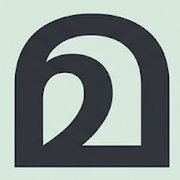
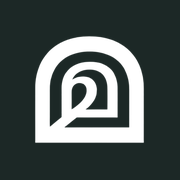
Add files via upload

diff --git a/theme.css b/theme.css
@@ -55,3 +55,12 @@ body.pub .content, body.pub .content p, body.pub .content li, body.pub .content 
 body.pub .content b, body.pub .content strong, body.pub .content h1, body.pub .content h2, body.pub .content h3 { font-weight: 700; }
 body.pub .content { font-family: "Noto Serif Malayalam", Georgia, serif; }
 body.pub .edit-bar button { font-weight: 600; }
+
+/* ---- Logo: one shape, recoloured per theme ---- */
+.logo-mark {
+  display: inline-block; flex: none; width: 36px; height: 36px; background-color: #085444;
+  -webkit-mask: url("logo-mark.png") center / contain no-repeat; mask: url("logo-mark.png") center / contain no-repeat;
+}
+html[data-theme="dark"] .logo-mark { background-color: #FFFFFF; }
+html[data-theme="eye"] .logo-mark { background-color: #365B3E; }
+header.top .brand { gap: 10px; }

diff --git a/index.html b/index.html
@@ -13,7 +13,7 @@
 <link rel="stylesheet" href="theme.css">
 <script src="https://cdn.jsdelivr.net/npm/@supabase/supabase-js@2.45.4/dist/umd/supabase.min.js"></script>
 <script src="https://cdnjs.cloudflare.com/ajax/libs/dompurify/3.1.6/purify.min.js"></script></head><body class="pub">
-<header class="top"><a class="brand" href="./"><img src="logo.png" alt="" width="70" height="38"><span>malayalamoptional</span></a><nav id="nav"></nav></header>
+<header class="top"><a class="brand" href="./"><span class="logo-mark" aria-hidden="true"></span><span>malayalamoptional</span></a><nav id="nav"></nav></header>
 <main id="app"><p class="empty">Loading…</p></main>
 <footer>© malayalamoptional &nbsp; <a href="admin.html">Admin login</a></footer>
 <script src="config.js"></script>

diff --git a/admin.html b/admin.html
@@ -11,7 +11,7 @@
 <link rel="stylesheet" href="theme.css">
 <script src="https://cdn.jsdelivr.net/npm/@supabase/supabase-js@2.45.4/dist/umd/supabase.min.js"></script>
 <script src="https://cdnjs.cloudflare.com/ajax/libs/mammoth/1.6.0/mammoth.browser.min.js"></script></head><body class="admin">
-<header class="top"><a class="brand" href="./"><img src="logo.png" alt="" width="70" height="38"><span>malayalamoptional</span></a><nav id="nav"></nav></header>
+<header class="top"><a class="brand" href="./"><span class="logo-mark" aria-hidden="true"></span><span>malayalamoptional</span></a><nav id="nav"></nav></header>
 <main id="app"></main>
 <script src="config.js"></script>
 <script src="card.js"></script>
